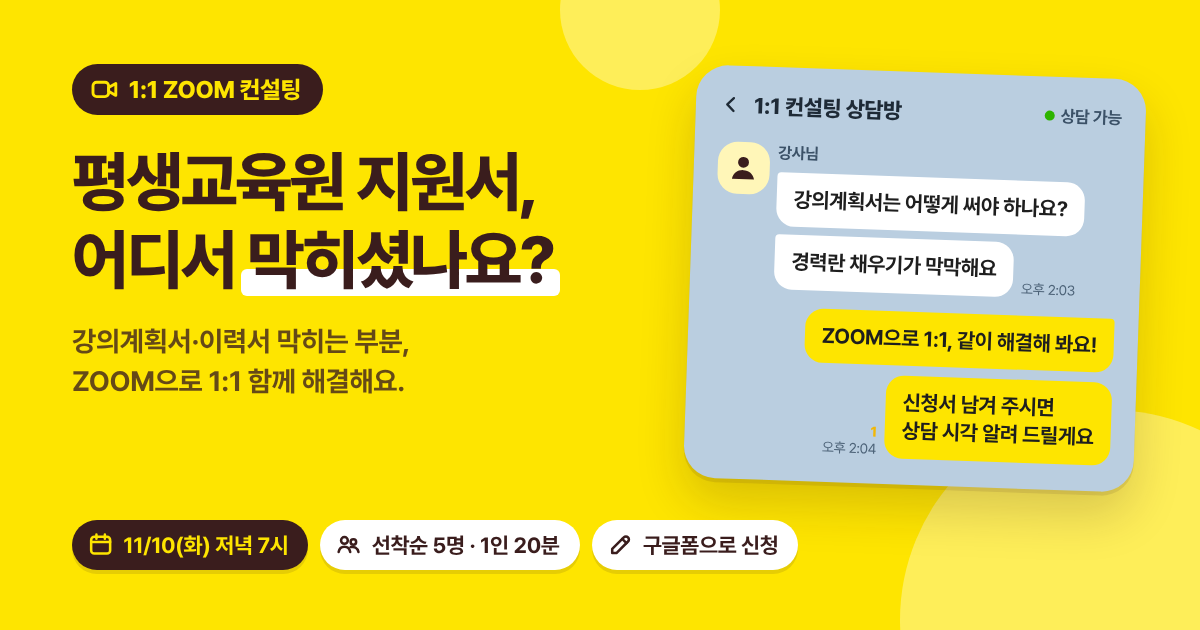
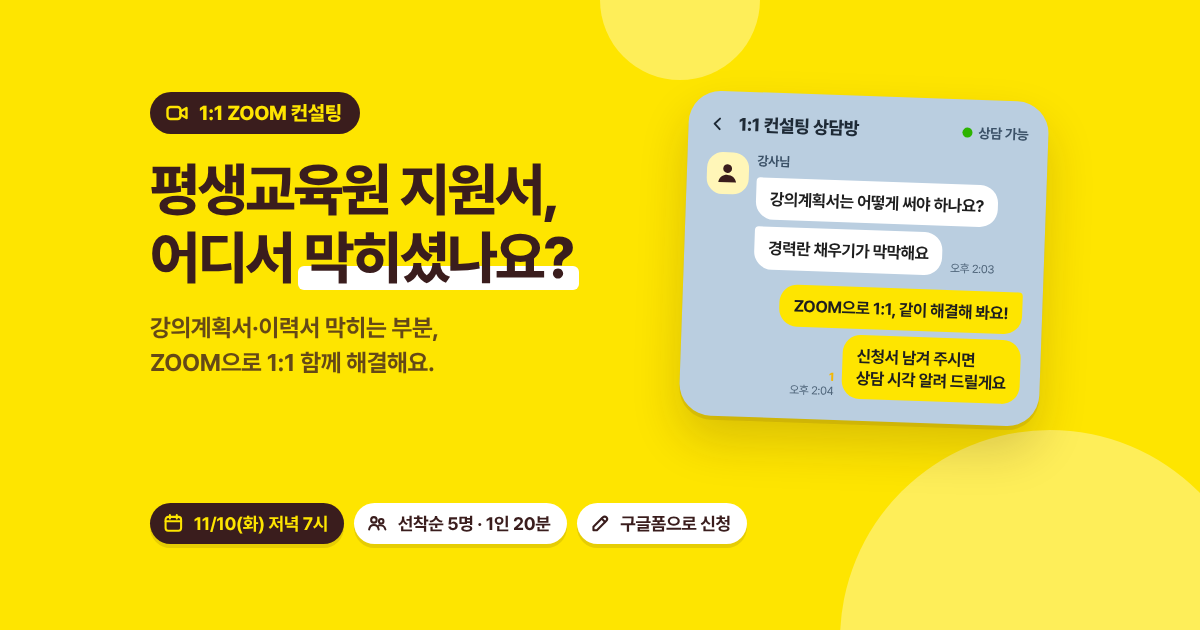
Keep wide thumbnail content inside a center-safe area
The posting site crops about 120px from each side of the 1200x630
image, so all text and the chat card now sit within x 150-1050.

Claude-Session: https://claude.ai/code/session_01G4atFpUHmW2HB8yGsukK2u

diff --git a/promo/zoom-consulting/thumbnail.html b/promo/zoom-consulting/thumbnail.html
@@ -86,22 +86,23 @@ h1 em::after {
 
 /* ---------- 가로형 1200×630 ---------- */
 .wide .stage { width: 1200px; height: 630px; }
-.wide .left { position: absolute; left: 72px; top: 64px; width: 600px; }
-.wide .pill { font-size: 24px; padding: 11px 22px 11px 18px; }
-.wide h1 { font-size: 66px; margin-top: 28px; }
-.wide .sub { font-size: 28px; margin-top: 22px; }
-.wide .chips { position: absolute; left: 72px; bottom: 60px; gap: 12px; }
-.wide .chip { font-size: 22px; padding: 12px 20px 12px 16px; }
-.wide .chat { position: absolute; right: 60px; top: 72px; width: 450px; padding: 26px 24px; gap: 18px; transform: rotate(2deg); }
-.wide .chat-head { font-size: 22px; padding-bottom: 6px; }
-.wide .chat-head .live { font-size: 17px; }
-.wide .avatar { width: 52px; height: 52px; }
-.wide .msgs { gap: 8px; }
-.wide .name { font-size: 16px; margin-bottom: 2px; }
-.wide .bubble { font-size: 21px; padding: 13px 17px; }
-.wide .meta { font-size: 14px; }
-.wide .d1 { width: 420px; height: 420px; right: -120px; bottom: -200px; }
-.wide .d2 { width: 160px; height: 160px; left: 560px; top: -70px; }
+/* 사이트에서 좌우가 잘려도 보이도록 내용은 가운데 x 150~1050 안에 둔다 */
+.wide .left { position: absolute; left: 150px; top: 92px; width: 520px; }
+.wide .pill { font-size: 20px; padding: 9px 18px 9px 15px; }
+.wide h1 { font-size: 58px; margin-top: 22px; }
+.wide .sub { font-size: 24px; margin-top: 18px; }
+.wide .chips { position: absolute; left: 150px; bottom: 86px; gap: 10px; }
+.wide .chip { font-size: 18px; padding: 10px 16px 10px 13px; }
+.wide .chat { position: absolute; right: 156px; top: 96px; width: 360px; padding: 22px 20px; gap: 14px; transform: rotate(2deg); }
+.wide .chat-head { font-size: 18px; padding-bottom: 4px; }
+.wide .chat-head .live { font-size: 14px; }
+.wide .avatar { width: 42px; height: 42px; }
+.wide .msgs { gap: 7px; }
+.wide .name { font-size: 13px; margin-bottom: 2px; }
+.wide .bubble { font-size: 16.5px; padding: 10px 14px; }
+.wide .meta { font-size: 11.5px; }
+.wide .d1 { width: 420px; height: 420px; right: -60px; bottom: -220px; }
+.wide .d2 { width: 160px; height: 160px; left: 600px; top: -80px; }
 
 /* ---------- 정사각형 1080×1080 ---------- */
 .square .stage { width: 1080px; height: 1080px; }
